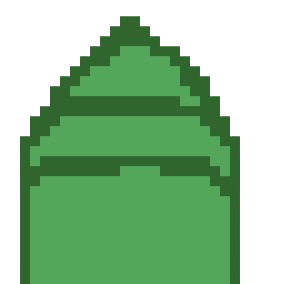
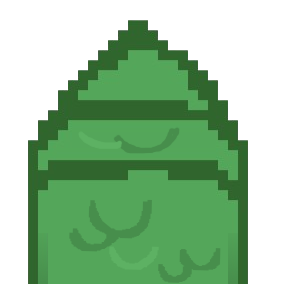
snake and lobby update
- ajout des angle au snake
- correction du nombre de pommes au snake
- optimisation et compaction du lobby
- ajout des fleche de navigation au lobby
- correction des hidbox au lobby

Changed region(s): [[0.0563, 0.0563, 0.8732, 1.0], [0.7042, 0.4225, 0.7324, 0.4507]]

diff --git a/main.py b/main.py
@@ -3,91 +3,69 @@
 # Date : 02/06/2025
 # Description : Système de lancement des jeux par interface graphique
 
-# liste d'import
 import pygame
 import os
 import sys
 import random
 from pygame.locals import *
-from game import pongbot
-from game import fpc
-from game import morpoin
-from game import pendu
-from game import blackjack
-from game import tetris
-from game import pong2
-from game import memoir
-from game import snak
+from game import pongbot, fpc, morpoin, pendu, blackjack, tetris, pong2, memoir, snak
 
-# init la fenetre
 pygame.init()
 fenetre = pygame.display.set_mode((640, 550))
 pygame.display.set_caption("Lobby Game")
 
-# deffinit les fonts
 font_grande = pygame.font.SysFont('Century Gothic', 33)
-font_petite = pygame.font.SysFont('Century Gothic', 18)  # Petite police
+font_petite = pygame.font.SysFont('Century Gothic', 18)
 
-# deffinit les couleures 
-couleur_texte_normal = (47, 6, 1)  # noir
-couleur_texte_survol = (34, 87, 122)  # bleu
+couleur_texte_normal = (47, 6, 1)
+couleur_texte_survol = (34, 87, 122)
 
-# Textes
 textes = [
     "Bienvenue dans le lobby",
-    "Shi-Fu-Mi",
-    "Snake",
-    "Pong",
-    "Pong 1V1",
-    "Tetris",
-    "Morpion",
-    "Pendu",
-    "BlackJack",
-    "Memoir",
-    "Jeux aléatoires",
-    "Quitter"
+    "Shi-Fu-Mi", "Snake", "Pong", "Pong 1V1", "Tetris",
+    "Morpion", "Pendu", "BlackJack", "Memoir",
+    "Jeux aléatoires", "Quitter"
 ]
 
-CHOIX = [
-    "Pierre-Papier-Ciseaux",
-    "Snake",
-    "Pong",
-    "Pong1V1",
-    "Tetris",
-    "Morpion",
-    "Pendu",
-    "BlackJack",
-    "Memoir",
-    "Quitter"
-    ]
-
-# Position de chaque texte
 positions = [
-    (120, 10),
-    (120, 100),
-    (120, 130),
-    (120, 160),
-    (120, 190),
-    (120, 220),
-    (120, 250),
-    (120, 280),
-    (120, 310),
-    (120, 340),
-    (120, 450),
-    (120, 480)
+    (120, 10), (120, 100), (120, 130), (120, 160), (120, 190),
+    (120, 220), (120, 250), (120, 280), (120, 310), (120, 340),
+    (120, 450), (120, 480)
 ]
 
-# varibale de loop
+index_selection = 1
 continuer = True
 
-# mette le couleur de fond puis refreche
-fenetre.fill((243, 232, 238))
-pygame.display.flip()
+def lancer_jeu(index):
+    pygame.display.set_mode((800, 600))
+    if index == 1: fpc.main()
+    elif index == 2: snak.main()
+    elif index == 3: pongbot.main()
+    elif index == 4: pong2.main()
+    elif index == 5: tetris.main()
+    elif index == 6: morpoin.main()
+    elif index == 7: pendu.main()
+    elif index == 8: blackjack.main()
+    elif index == 9:
+        pygame.display.set_mode((800, 800))
+        memoir.jeu_memory()
+    elif index == 10:
+        return random.randint(1, 9)
+    elif index == 11:
+        pygame.quit()
+        sys.exit()
+    return 0  # Reset `select` après
 
+def resource_path(relative_path):
+    try:
+        base_path = sys._MEIPASS
+    except AttributeError:
+        base_path = os.path.abspath(".")
+    return os.path.join(base_path, relative_path)
 
-"""Boucle principale"""
 def main():
-    # essaye de load la favicon
+    global index_selection, continuer
+
     try:
         logo_path = resource_path("textures/logo.png")
         logo = pygame.image.load(logo_path)
@@ -95,133 +73,63 @@ def main():
     except Exception as e:
         print(f"Logo non trouvé ou erreur de chargement : {e}")
 
-    # mets fenetre et continier en global pour etre utiliser dans toutes les methode
-    global fenetre  
-    global continuer
+    select = 0
 
-    select = 0 # varibale de choix aléatoire
-    
-    # boucle du lobby
     while continuer:
         fenetre.fill((243, 232, 238))
-
-        # Récupérer la position de la souris
         pos_souris = pygame.mouse.get_pos()
+        # Juste avant la boucle, ajoute :
+        survol_index = None
+        for i, (_, position) in enumerate(zip(textes, positions)):
+            if i != 0 and position[1] <= pos_souris[1] <= position[1] + 30:
+                survol_index = i
+                break
 
-        # Affichage du texte avec survol
+        
+
         for i, (texte, position) in enumerate(zip(textes, positions)):
-
             if i == 0:
                 couleur_texte = couleur_texte_normal
+            elif i == survol_index:
+                couleur_texte = couleur_texte_survol
+            elif i == index_selection and survol_index is None:
+                couleur_texte = couleur_texte_survol
+
             else:
-                # Créer l'objet texte
-                if position[1] <= pos_souris[1] <= position[1] + 20:
+                couleur_texte = couleur_texte_normal
 
-                    couleur_texte = couleur_texte_survol
-                else:
-                    couleur_texte = couleur_texte_normal
-
-            # Afficher le texte
             fenetre.blit(font_grande.render(texte, True, couleur_texte), position)
 
-            # Séction pour exécuter les mini-jeux en fonction de où est la souris
-            if position[1] <= pos_souris[1] <= position[1] + 20 and couleur_texte == couleur_texte_survol:
-                if pygame.mouse.get_pressed()[0] or select != 0:
-                    
-                    # scondition pour ouvrire chaque jeux
-                    if texte == "Shi-Fu-Mi" or select == 1:
-                        
-                        pygame.display.set_mode((800, 600))
-                        fpc.main() 
-                        continuer = False  
-
-                    if texte == "Snake" or select == 2:
-                        
-                        pygame.display.set_mode((800, 600))
-                        snak.main()  
-                        continuer = False
-
-                    if texte == "Pong" or select == 3:
-                        
-                        pygame.display.set_mode((800, 600))
-                        pongbot.main()  
-                        continuer = False  
-
-                    if texte == "Tetris" or select == 4:
-                        
-                        pygame.display.set_mode((800, 600))
-                        tetris.main()  
-                        continuer = True  
-
-                    if texte == "Morpion" or select == 5:
-                        
-                        pygame.display.set_mode((800, 600))
-                        morpoin.main()                          
-                        continuer = False  
-
-                    if texte == "Pendu" or select == 6:
-                        pygame.display.set_mode((800, 600))
-                        pendu.main()  
-                        continuer = False  
-
-                    if texte == "BlackJack" or select == 7:
-                        
-                        pygame.display.set_mode((800, 600))
-                        blackjack.main()  
-                        
-                        continuer = False  
-
-                    if texte == "Memoir" or select == 8:
-                        
-                        pygame.display.set_mode((800, 800))
-                        memoir.jeu_memory()  
-                        
-                        continuer = False
-
-                    if texte == "Pong 1V1" or select == 9:
-                        
-                        pygame.display.set_mode((800, 600))
-                        pong2.main()  
-                        
-                        continuer = True
-
-                    if texte == "Jeux aléatoires":
-                        
-                        select = random.uniform(0, 9)
-                        select = round(select)
-                        print(select)
-                        continuer = True
-
-                    if texte == "Quitter":
-                        continuer = False
-                        pygame.quit()
-                        sys.exit()
-
-
-
         fenetre.blit(font_petite.render("Touche DELETE pour quitter", True, (245, 133, 73)), (120, 40))
-
         pygame.display.update()
 
-        # Événements pour quitté
         for event in pygame.event.get():
-            if event.type == KEYDOWN and event.key == K_DELETE or event.type == pygame.QUIT:
+            if event.type == QUIT:
                 continuer = False
                 pygame.quit()
                 sys.exit()
+            elif event.type == KEYDOWN:
+                if event.key == K_DELETE:
+                    continuer = False
+                    pygame.quit()
+                    sys.exit()
+                elif event.key == K_DOWN:
+                    index_selection += 1
+                    if index_selection >= len(textes) - 1:
+                        index_selection = 1
+                elif event.key == K_UP:
+                    index_selection -= 1
+                    if index_selection < 1:
+                        index_selection = len(textes) - 2
+                elif event.key == K_RETURN:
+                    select = index_selection
+            elif event.type == MOUSEBUTTONDOWN and event.button == 1:
+                for i, (_, position) in enumerate(zip(textes, positions)):
+                    if i != 0 and position[1] <= pos_souris[1] <= position[1] + 30:
+                        select = i
 
-
-"""Fonction pour trouver le 'favicon' dans l'exe ou pas"""
-def resource_path(relative_path):
-    # essaye de créé un dossier temporaire
-    try:
-        # PyInstaller crée un dossier temporaire _MEIPASS
-        base_path = sys._MEIPASS
-    except AttributeError:
-        base_path = os.path.abspath(".")
-
-    return os.path.join(base_path, relative_path)
-
+        if select != 0:
+            select = lancer_jeu(select)
 
 if __name__ == "__main__":
     main()

diff --git a/game/snak.py b/game/snak.py
@@ -45,21 +45,29 @@ try:
     use_tete_texture = True
 except FileNotFoundError:
     use_tete_texture = False
-1
+
 try:
     keu_image = pygame.image.load(os.path.join(base_path, "snake", "keu.png")).convert_alpha()
     keu_image = pygame.transform.scale(keu_image, (TILE_SIZE, TILE_SIZE))
     use_keu_texture = True
 except FileNotFoundError:
     use_keu_texture = False
+try:
+    serpent_angle_image = pygame.image.load(os.path.join(base_path, "snake", "angle.png")).convert_alpha()
+    serpent_angle_image = pygame.transform.scale(serpent_angle_image, (TILE_SIZE, TILE_SIZE))
+    use_angle_texture = True
+except FileNotFoundError:
+    use_angle_texture = False
+
 
 
 # ... tout le début inchangé ...
 
 def main():
-    snake = [(5, 5)]
+    snake = [(5, 5), (4, 5), (3, 5)]
+
     direction = (1, 0)
-    pommes = [(random.randint(0, NB_TILES_X - 1), random.randint(0, NB_TILES_Y - 1)) for _ in range(800)]
+    pommes = [(random.randint(0, NB_TILES_X - 1), random.randint(0, NB_TILES_Y - 1)) for _ in range(10)]
     score = 0
     continuer = True
     direction_changed = False
@@ -158,26 +166,29 @@ def main():
                     dx2 = next_segment[0] - segment[0]
                     dy2 = next_segment[1] - segment[1]
 
-                    # Si en ligne droite
                     if (dx1 == dx2 and dy1 == dy2):
+                        # Ligne droite
                         angle = get_angle((dx1, dy1)) + 180
                         image = pygame.transform.rotate(serpent_image, angle % 360)
                     else:
-                        # Angle, donc on va afficher le corps tourné pour une courbe
-                        if (dx1, dy1) == (0, -1) and (dx2, dy2) == (1, 0) or (dx1, dy1) == (-1, 0) and (dx2, dy2) == (0, 1):
-                            angle = 0  # haut -> droite ou gauche -> bas
-                        elif (dx1, dy1) == (0, -1) and (dx2, dy2) == (-1, 0) or (dx1, dy1) == (1, 0) and (dx2, dy2) == (0, 1):
-                            angle = 90
-                        elif (dx1, dy1) == (0, 1) and (dx2, dy2) == (-1, 0) or (dx1, dy1) == (1, 0) and (dx2, dy2) == (0, -1):
-                            angle = 180
-                        elif (dx1, dy1) == (0, 1) and (dx2, dy2) == (1, 0) or (dx1, dy1) == (-1, 0) and (dx2, dy2) == (0, -1):
-                            angle = 270
+                        # Angle
+                        if use_angle_texture:
+                            if (dx1, dy1) == (0, -1) and (dx2, dy2) == (1, 0) or (dx1, dy1) == (-1, 0) and (dx2, dy2) == (0, 1):
+                                angle = 0
+                            elif (dx1, dy1) == (0, -1) and (dx2, dy2) == (-1, 0) or (dx1, dy1) == (1, 0) and (dx2, dy2) == (0, 1):
+                                angle = 270
+                            elif (dx1, dy1) == (0, 1) and (dx2, dy2) == (-1, 0) or (dx1, dy1) == (1, 0) and (dx2, dy2) == (0, -1):
+                                angle = 180
+                            elif (dx1, dy1) == (0, 1) and (dx2, dy2) == (1, 0) or (dx1, dy1) == (-1, 0) and (dx2, dy2) == (0, -1):
+                                angle = 90
+                            else:
+                                angle = 0
+                            image = pygame.transform.rotate(serpent_angle_image, angle)
                         else:
-                            angle = 0  # fallback
-
-                        image = pygame.transform.rotate(serpent_image, angle)
+                            image = pygame.transform.rotate(serpent_image, 0)  # fallback
 
                     fenetre.blit(image, (x, y))
+
                 else:
                     pygame.draw.rect(fenetre, (109, 118, 91), (x, y, TILE_SIZE, TILE_SIZE))
 
@@ -187,7 +198,9 @@ def main():
         clock.tick(10)
 
     # Game Over
+    fenetre.fill((243, 232, 238))
     fenetre.blit(font_grande.render("Game Over", True, (200, 0, 0)), (320, 250))
+    fenetre.blit(font_petite.render(f"score {score}", True, (200, 0, 0)), (375, 280))
     pygame.display.update()
     pygame.time.wait(2000)
     pygame.quit()
